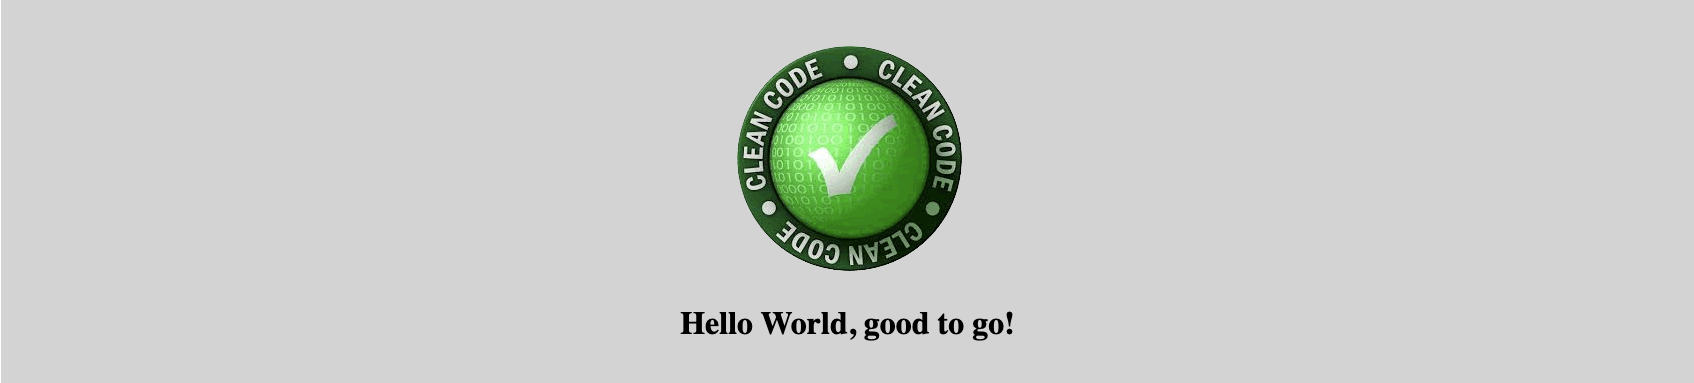
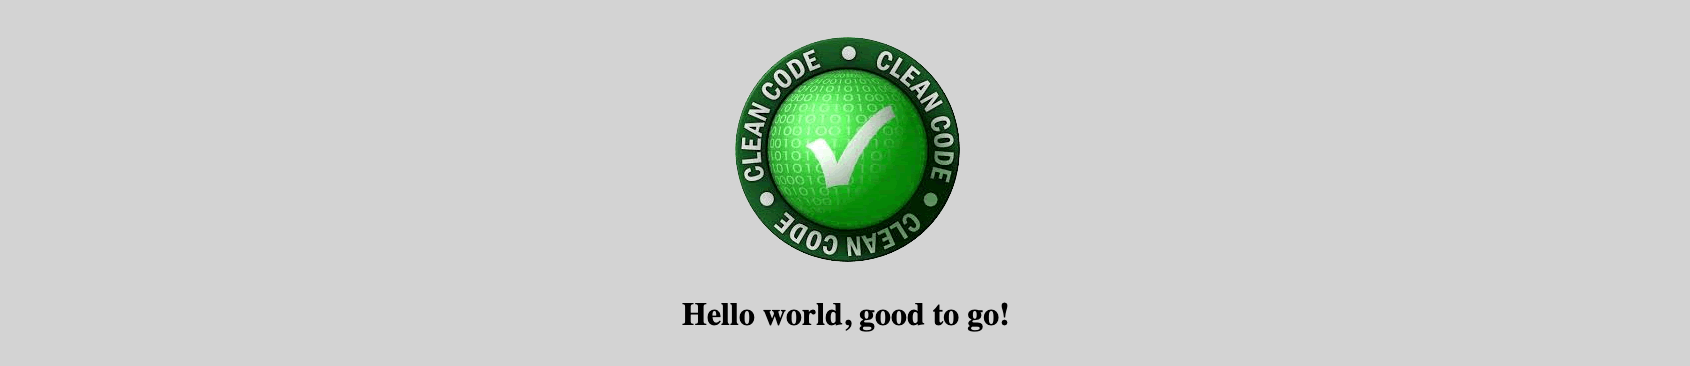
Improved local setup instructions

Changed region(s): [[0.4308, 0.0902, 0.5846, 0.7213], [0.4, 0.8115, 0.6154, 0.9016]]

diff --git a/helloworld.py b/helloworld.py
@@ -10,9 +10,15 @@ app = Flask(__name__, static_url_path='/assets')
 def hello_world():
 
     return '''
+    <html>
+    <head>
+        <link rel="icon" type="image/x-icon" href="/assets/images/favicon.ico">
+    </head>
+    <body>
         <div style="background-color: lightgray; text-align: center; min-height: calc(100vh - (100vh - 300px) / 2); padding-top: calc((100vh - 300px) / 2);">
-            <img src="/assets/images/clean-code.png" /><h1>Hello World, good to go!</h1>
+            <img src="/assets/images/clean-code.png" /><h1>Hello world, good to go!</h1>
         </div>
+    </body>
     '''
 
 service_port = os.getenv('SERVICEPORT')

diff --git a/README.md b/README.md
@@ -62,13 +62,17 @@ As mentioned in the overview above, there are two options for the development en
 ### Option 1: Local development environment (preferred)
 
 1. At a terminal window or command prompt (all systems) check to see if you have Python 3.
-$ is the command prompt, and there are three possible commands to check:
+$ is the command prompt.
+There are three possible commands to check depending on your platform and
+how python was installed, not every one will work if python is installed:
     ```
     $ python --version
     $ python3 --version
     $ py --version
     ```
-
+1. If python is installed, make a note of which python command worked.
+Throughout this guide we will just use *python* in the examples, but you need to replace
+it with whatever the python command on your system is.
 1. Check for *git*:
     ```
     $ git --version
@@ -83,7 +87,15 @@ $ is the command prompt, and there are three possible commands to check:
         ```
     1. Download and install from python.org: https://docs.python.org/3/using/mac.html
     1. Download and install from Anaconda.com: https://www.anaconda.com/download
-
+1. Check and make a note of which python command you just installed.
+It could be *python*, *python3*, or *py*.
+Different installations name the command differently, and any one of them is OK.
+Just remember to substitute what you have for *python* is the following examples:
+    ```
+    $ python --version
+    $ python3 --version
+    $ py 
+    ```
 1. Install git if you do not have it; two options:
     1. Install with Homebrew:
         ```
@@ -107,7 +119,15 @@ $ is the command prompt, and there are three possible commands to check:
         ```
     1. Download and install from python.org: https://docs.python.org/3/using/windows.html
     1. Download and install from Anaconda.com: https://www.anaconda.com/download
-
+1. Check and make a note of which python command you just installed.
+It could be *python*, *python3*, or *py*.
+Different installations name the command differently, and any one of them is OK.
+Just remember to substitute what you have for *python* is the following examples:
+    ```
+    $ python --version
+    $ python3 --version
+    $ py 
+    ```
 1. Install Visual Studio Code, if necessary:
     1. Install with Homebrew:
         ```
@@ -118,12 +138,20 @@ $ is the command prompt, and there are three possible commands to check:
 
 #### Linux
 
-1. Install Python 3 if you do not have it:
+1. Install Python 3 if you do not have it ($ is the command prompt):
     ```
     $ sudo apt update; sudo apt install python3          # Debian Linux (Ubuntu, etc.)
     $ sudo yum check-update; sudo yum install python3    # RHEL (Red Hat, Centos, etc.)
     ```
-
+1. Check and make a note of which python command you just installed.
+It could be *python*, *python3*, or *py*.
+Different installations name the command differently, and any one of them is OK.
+Just remember to substitute what you have for *python* is the following examples:
+    ```
+    $ python --version
+    $ python3 --version
+    $ py 
+    ```
 1. Install Visual Studio Code, if necessary:
     1. Install with Homebrew:
         ```
@@ -137,36 +165,60 @@ $ is the command prompt, and there are three possible commands to check:
 1. We recommend that you set up an SSH Key at GitHub to pull and push repository changes,
 that will be much easier than using a password.
 See the [Git Notes](#git-notes) section for details.
-
+1. Launch VSCode.
+If this is a new installation of VSCode, you will land on a screen to guide you through setup.
+For this project you do not have to do anything here.
+We are not using anything
+like Copilot, but you are free to explore and customize your setup
+it if you want:
+![VSCode Setup](.assets/vscode-setup.png)
 1. Install the necessary extensions to the VSCode environment:
     1. Click the extensions icon on the toolbar. ![Extensions](./.assets/extensions-button.png)
-    2. Add (if not already installed) Microsoft Python, Microsoft Python Debugger, Microsoft Live Share, and
+    1. In the *Search Extensions in Marketplace* input field, one at a time, search for
+    the following four extensions: Microsoft Python, Microsoft Python Debugger, Microsoft Live Share, and
     Ritwik Dey Liver Server:
     ![Required Extensions](./.assets/extensions.png)
-1. Fork this repository to your own GitHub account:
+    1. As you find each one, look for an *install* or *uninstall* button.
+    If you find an install button, click it to install the extension.
+    Hint: installing the Python extension should include the debugger extension too.
+    ![Extension Install](./.assets/extensions-install.png)
+1. In this project at GitHub click
+    the *Fork* button to copy this repository to your own GitHub account:
     ![Fork Repository](./.assets/fork-repository.png)
+1. In your own copy of the repository, click on the green *Code* button, make sure the *Local*
+tab is selected, and copy the URL.
+If you set up SSH you will see that URL, otherwise it will be an https:// URL:
+![GitHub Clone](.assets/github-clone.png)
 1. Clone your copy to your local machine using git at the command prompt/terminal:
     ```
     $ cd <your projects directory>
     $ git clone <your repository path>
     ```
-1. Open VSCode and select the repository folder you just cloned.
-1. Open a terminal window.
-1. Create a local Python virtual environment (substitute python3 or py for python depending on installation):
+1. Back in VSCode use the *File &rarr; Open Folder* menu option and open the repository
+folder you just cloned to your local computer.
+1. In VSCode open an the embedded terminal window with the *View &rarr; Terminal* menu option.
+1. Create a local Python virtual environment in the project folder.
+Remember that $ is the command prompt, and you may need to substitute your python command name
+(*python3* or *py* ) for *python* in this example:
     ```
     $ python -m venv .venv
     $ . .venv/bin/activate        # MacOS or Linux
     $ .venv\Scripts\activate      # Windows
     ```
-1. Use *pip* to install the Python modules necessary for this project:
+1. Use the Python package manager *pip* to install the Python modules necessary for this project:
     ```
-    $ pyrhon -m pip install coverage mock flask python-dotenv 
+    $ python -m pip install coverage mock flask python-dotenv 
     ```
+1. You may have seen a "toast" popup window asking you to confirm the new virtual environment
+python as the interpreter and confirmed that.
+If you did not, use the *View &rarr; Command Palette...* menu option to open the command palette.
+Enter and pick when available in the drop-down list *Python: Select Interpreter*, and then in the
+next window pick the interpreter in the *./.venv/bin* folder (it should be labeled *recommended*):
+    ![Python Select Interpreter](.assets/python-select-interpreter.png)
 1. On the toolbar click the run-debug icon ![Run-Debug](./.assets/run-debug.png)
 1. At the top right of the panel select and launch the configuration *Hello, World!*:
 
     ![Run-Debug-Launch-Configuration](./.assets/run-debug-launch-configuration.png)
-
 1. In the terminal panel that opened look for the output line beginning with "Application starting on...":
     ```
     Application starting on http://localhost:3000/
@@ -177,7 +229,10 @@ See the [Git Notes](#git-notes) section for details.
     ![Verify](./.assets/verify-image.png)
 
 1. Close the browser page.
-1. Find the debug controls and click the red-bordered stop button to terminate the application: ![Run-Debug-Stop](./.assets/run-debug-stop.png)
+1. Find the debug controls and click the red-bordered stop button to terminate the application.
+By default they float at the top-center of the VSCode
+application, but you can move them anywhere you like with the drag bar on the left:
+![Run-Debug-Stop](./.assets/run-debug-stop.png)
 1. Congratulations, everything is set to start!
 
 ## Option 2: Develop in a GitHub Codespace
